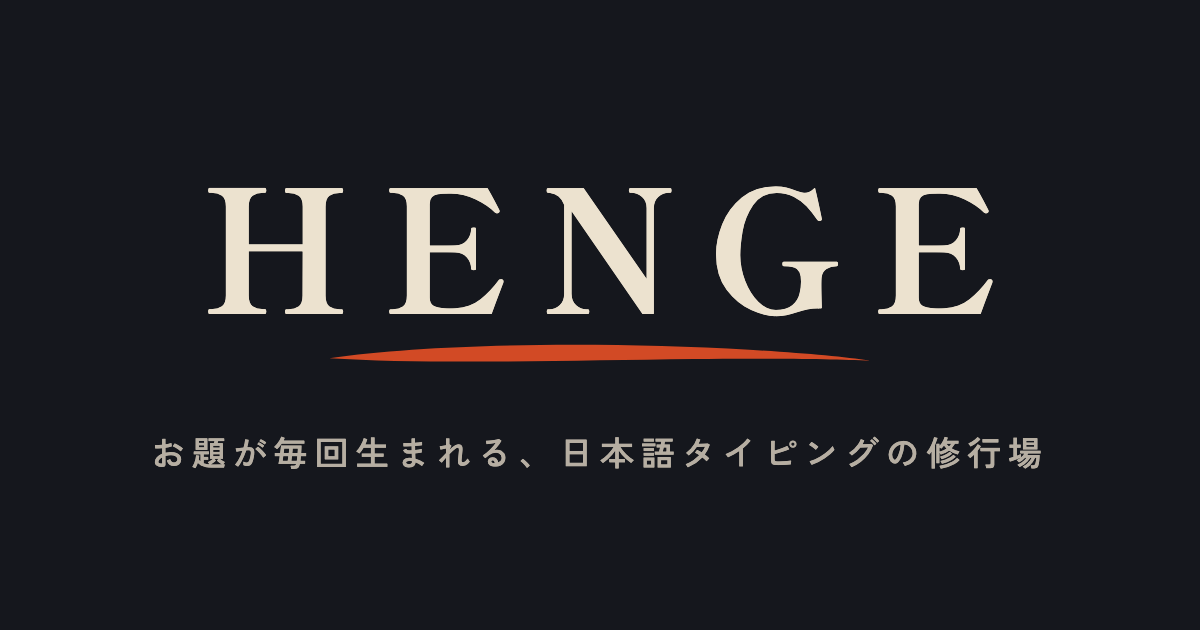
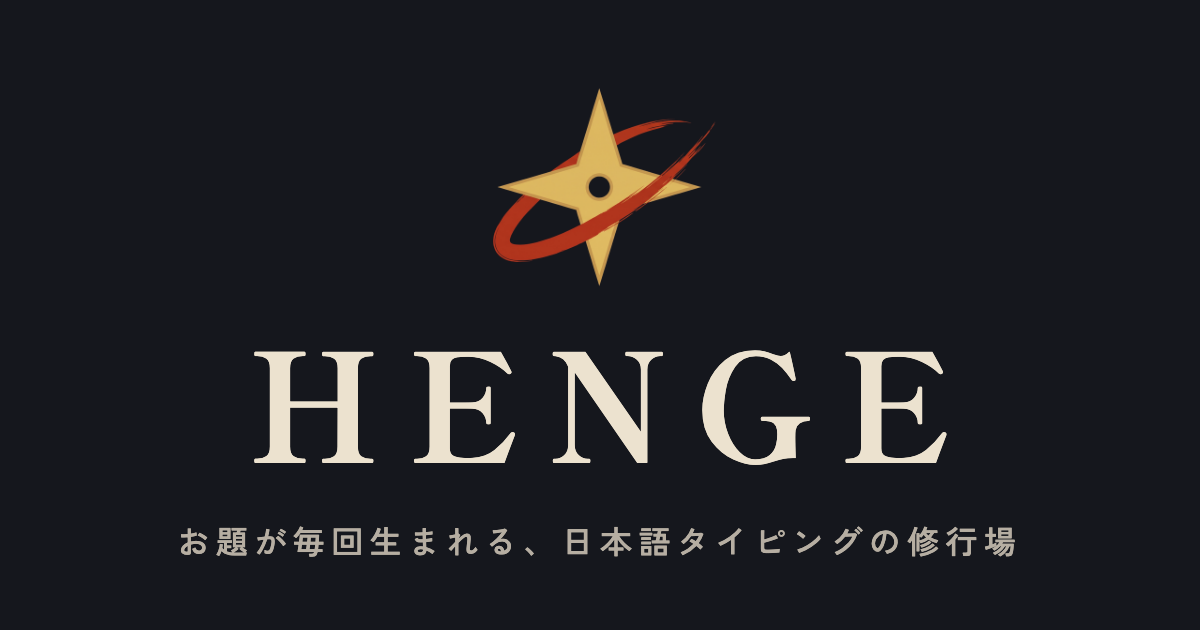
feat: OG画像をアイコン＋ワードマークの構成に作り直す
ロゴをアイコン＋ワードマークに変え、朱の一筆を外したのに、OG画像だけが
ワードマーク＋一筆のまま残っていた。OG画像は共有カードとしてサイトの外へ
出ていく唯一の絵なので、ここだけ古いと、リンクを踏んだ人が最初に見る絵と
着地先が食い違う。

源のHTMLには絵を焼き直さず、app/icon.png を参照している。焼き直すと、
アイコンを差し替えたときにOG画像だけ古いまま残る（今回まさにそれが起きた）。

docs/09-share.md の手順に、アイコンを差し替えたときも作り直すこと、
--allow-file-access-from-files が要ること、フォント待ちが足りないと明朝が
ゴシックのまま焼き付くので目視で確認することを足した。

このPRに含めるのは、app/icon.png がこのブランチにしか無く、単独では
作れないため。

diff --git a/scripts/generate-og.html b/scripts/generate-og.html
@@ -22,26 +22,31 @@
       .inner {
         text-align: center;
       }
+      /**
+       * アプリアイコン。**app/icon.png をそのまま参照する。**ここに絵を焼き直すと、
+       * アイコンを差し替えたときにOG画像だけ古いまま残る。
+       */
+      .icon {
+        display: block;
+        width: 240px;
+        height: 240px;
+        margin: 0 auto 16px;
+      }
       .logo {
         font-family: "Shippori Mincho", serif;
         font-weight: 700;
-        font-size: 170px;
+        font-size: 150px;
         line-height: 1;
         letter-spacing: 0.18em;
         margin-left: 0.18em; /* 字間で末尾に出た余白の分を戻す */
         color: #ece2cf;
       }
-      .underline {
-        display: block;
-        width: 560px;
-        height: 34px;
-        margin: 12px auto 0;
-      }
+      /* 朱の一筆は入れない。朱はアイコンの弧が担う（docs/07-ui.md） */
       .tagline {
-        margin-top: 56px;
+        margin-top: 44px;
         font-family: "Zen Kaku Gothic New", sans-serif;
         font-weight: 500;
-        font-size: 34px;
+        font-size: 32px;
         letter-spacing: 0.2em;
         color: rgba(236, 226, 207, 0.75);
       }
@@ -49,14 +54,8 @@
   </head>
   <body>
     <div class="inner">
+      <img class="icon" src="../apps/frontend/app/icon.png" alt="" />
       <div class="logo">HENGE</div>
-      <!-- 筆の下線。Logo / HeroLogo と同じ一筆 -->
-      <svg class="underline" viewBox="0 0 120 8" preserveAspectRatio="none" aria-hidden="true">
-        <path
-          d="M2 5 C 24 1.5, 60 1, 92 3 C 104 3.8, 112 4.6, 118 5.6 C 110 5.2, 96 5, 80 5.2 C 52 5.6, 22 6.4, 2 5 Z"
-          fill="#d24a25"
-        />
-      </svg>
       <div class="tagline">お題が毎回生まれる、日本語タイピングの修行場</div>
     </div>
   </body>

diff --git a/docs/09-share.md b/docs/09-share.md
@@ -62,7 +62,11 @@ HENGEで「忍びの心得」を打った。
 
 実装はApp Routerのmetadata APIにOGPフィールドを足すだけ。SSR/SSGのHTMLにメタタグが載るため、OpenNextでも追加の仕組みは不要。
 
-**OG画像は `scripts/generate-og.html` の源から生成する。** サイトの4色（docs/07-ui.md）と、ロゴと同じ筆の下線を使う。再生成の手順:
+**OG画像は `scripts/generate-og.html` の源から生成する。** サイトの4色（docs/07-ui.md）を使い、トップのヒーローと同じ**アイコン → ワードマーク → キャッチコピー**の縦積みにする（**朱の一筆は入れない**。朱はアイコンの弧が担う）。
+
+**アイコンは `apps/frontend/app/icon.png` を参照する。**源のHTMLに絵を焼き直さない。焼き直すと、アイコンを差し替えたときにOG画像だけ古いまま残る。
+
+再生成の手順:
 
 ```bash
 "/Applications/Google Chrome.app/Contents/MacOS/Google Chrome" \
@@ -72,7 +76,9 @@ HENGEで「忍びの心得」を打った。
   "file://$(pwd)/scripts/generate-og.html"
 ```
 
-`--virtual-time-budget` はWebフォント（Google Fonts CDN）の読み込み待ち。源のHTMLを書き換えたらこのコマンドで og.png を作り直す。
+`--virtual-time-budget` はWebフォント（Google Fonts CDN）の読み込み待ち。**足りないと明朝がフォールバックのゴシックのまま焼き付く**ので、生成後は必ず絵を目で見て確認する。`--allow-file-access-from-files` は `file://` から `app/icon.png` を読むために要る。
+
+源のHTMLを書き換えたとき、**そして `app/icon.png` を差し替えたとき**は、このコマンドで og.png を作り直す。
 
 ## やらないこと
 
